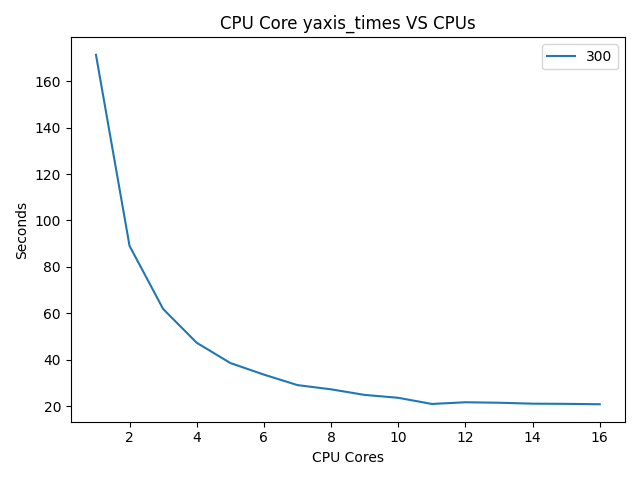
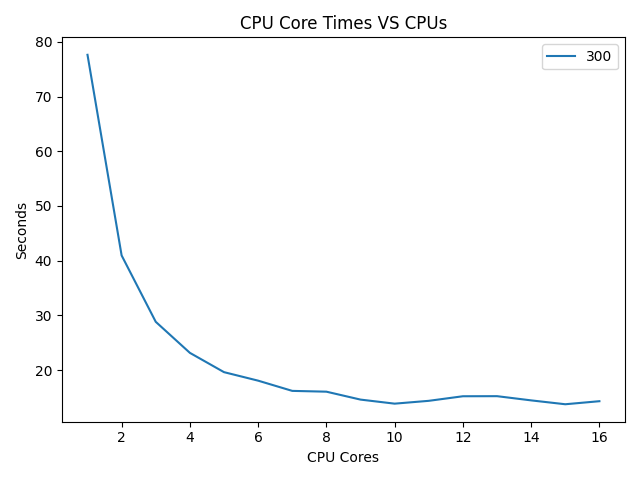
works but doesn't plot...

diff --git a/lesson_04/prove/prove.py b/lesson_04/prove/prove.py
@@ -50,7 +50,7 @@ class Car():
         time.sleep(random.random() / (SLEEP_REDUCE_FACTOR))
 
         # Display the car that has was just created in the terminal
-        print(f'Created: {self.info()}')
+        # print(f'Created: {self.info()}')
            
     def info(self):
         """ Helper function to quickly get the car information. """
@@ -77,69 +77,77 @@ class Queue251():
 class Factory(threading.Thread):
     """ This is a factory.  It will create cars and place them on the car queue """
 
-    def __init__(self):
-        # TODO, you need to add arguments that will pass all of data that 1 factory needs
-        # to create cars and to place them in a queue.
-        pass
+    def __init__(self, queue, semaphore):
+        threading.Thread.__init__(self)
+        self.queue = queue
+        self.semaphore = semaphore
 
 
     def run(self):
         for i in range(CARS_TO_PRODUCE):
-            # TODO Add you code here
-            """
-            create a car
-            place the car on the queue
-            signal the dealer that there is a car on the queue
-           """
+            car = Car()
 
-        # signal the dealer that there there are not more cars
-        pass
+            # Check if the queue is at its maximum size before putting the car
+            while self.queue.size() >= MAX_QUEUE_SIZE:
+                time.sleep(0.1)  # adjustable sleep time
+
+            self.queue.put(car)
+            print(f'Factory created: {car.info()}')
+            self.semaphore.release()
+
+        # Signal the dealer that there are no more cars
+        final_car = "No more cars"
+        self.queue.put(final_car)
+        self.semaphore.release()
 
 
 class Dealer(threading.Thread):
     """ This is a dealer that receives cars """
-
-    def __init__(self):
-        # TODO, you need to add arguments that pass all of data that 1 Dealer needs
-        # to sell a car
-        pass
+    
+    def __init__(self, queue, semaphore):
+        threading.Thread.__init__(self)
+        self.queue = queue
+        self.semaphore = semaphore
 
     def run(self):
-        while True:
-            # TODO Add your code here
-            """
-            take the car from the queue
-            signal the factory that there is an empty slot in the queue
-            """
+        for i in range(CARS_TO_PRODUCE):
+            self.semaphore.acquire()
+            car = self.queue.get()
+
+            if car == "No more cars":
+                print("There are no more cars to sell. Exiting.")
+                break
+
+            print(f'Dealership sold: {car.info()}')
 
             # Sleep a little after selling a car
             # Last statement in this for loop - don't change
             time.sleep(random.random() / (SLEEP_REDUCE_FACTOR))
 
 
-
 def main():
     log = Log(show_terminal=True)
 
-    # TODO Create semaphore(s)
-    # TODO Create queue251 
-    # TODO Create lock(s) ?
+    log.start_timer()
+    
+    semaphore = threading.Semaphore(0)
+    queue = Queue251()
+
+    factory = Factory(queue, semaphore)
+    dealer = Dealer(queue, semaphore)
 
     # This tracks the length of the car queue during receiving cars by the dealership
     # i.e., update this list each time the dealer receives a car
     queue_stats = [0] * MAX_QUEUE_SIZE
 
-    # TODO create your one factory
+    factory.start()
+    dealer.start()
 
-    # TODO create your one dealership
+    factory.join()
+    dealer.join()
 
-    log.start_timer()
 
-    # TODO Start factory and dealership
-
-    # TODO Wait for factory and dealership to complete
-
-    log.stop_timer(f'All {sum(queue_stats)} have been created')
+    log.stop_timer(f'All {CARS_TO_PRODUCE} cars have been created. ')
 
     xaxis = [i for i in range(1, MAX_QUEUE_SIZE + 1)]
     plot = Plots()

diff --git a/lesson_03/prove/prove.py b/lesson_03/prove/prove.py
@@ -1,3 +1,20 @@
+"""
+Course: CSE 251 
+Lesson: L03 Prove
+File:   prove.py
+Author: <Add name here>
+
+Purpose: Video Frame Processing
+
+Instructions:
+
+- Follow the instructions found in Canvas for this assignment.
+- No other packages or modules are allowed to be used in this assignment.
+  Do not change any of the from and import statements.
+- Only process the given MP4 files for this assignment.
+- Do not forget to complete any TODO comments.
+"""
+
 from matplotlib.pylab import plt  # load plot library
 from setup import setup as ensure_assignment_is_setup
 from PIL import Image
